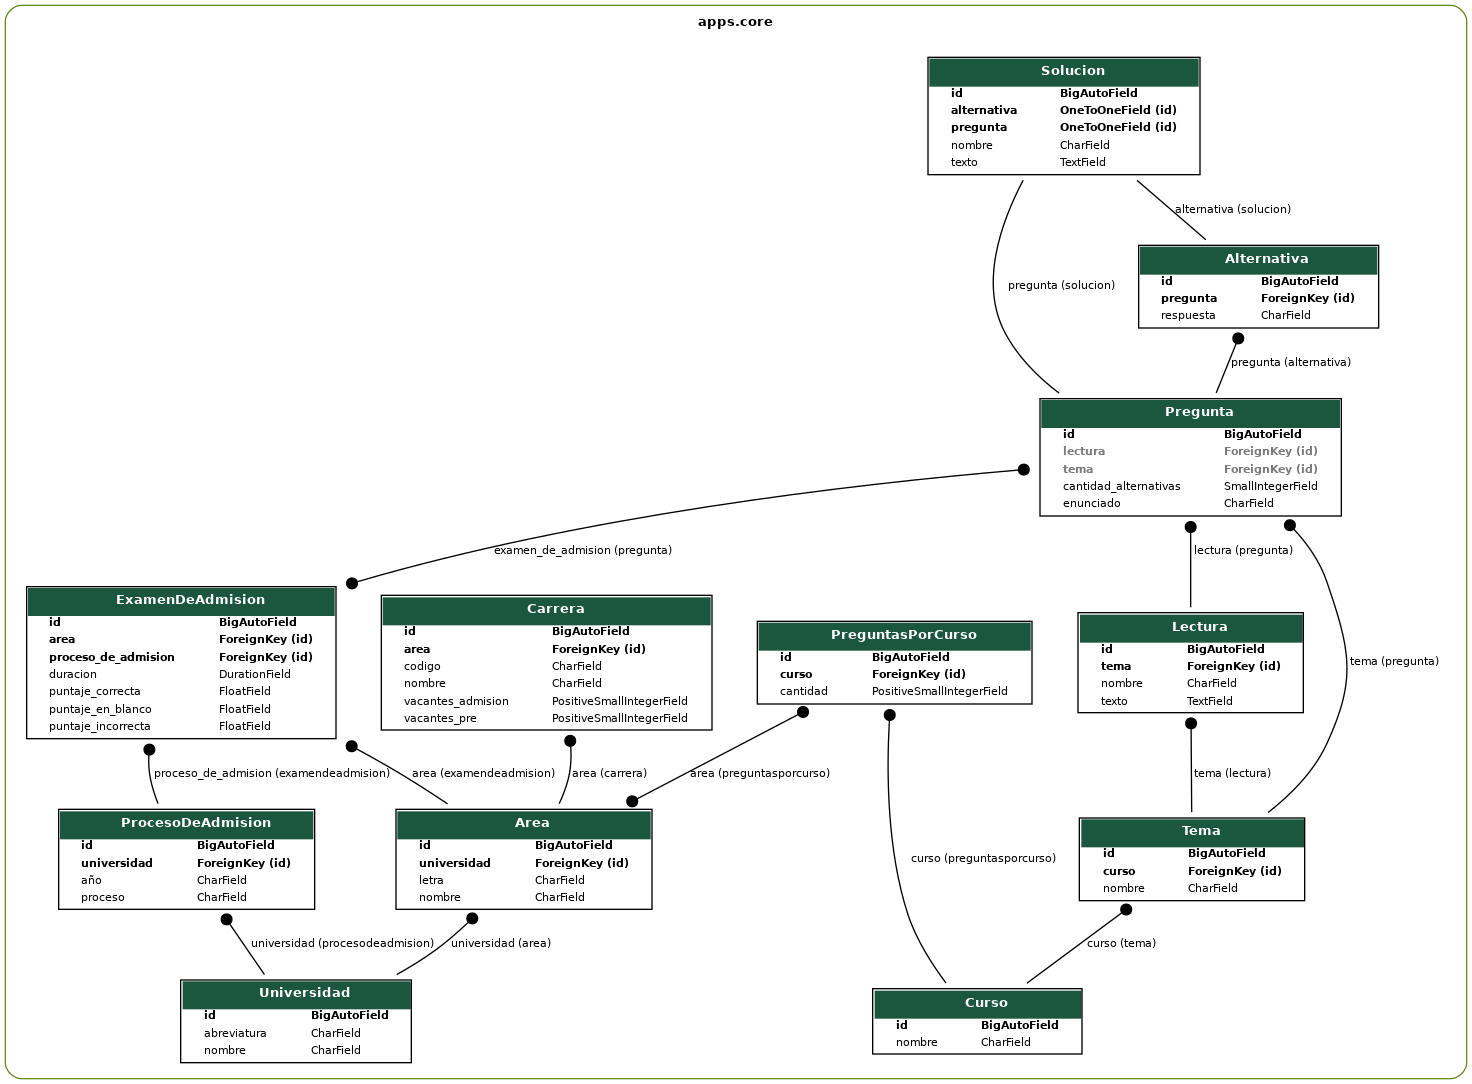
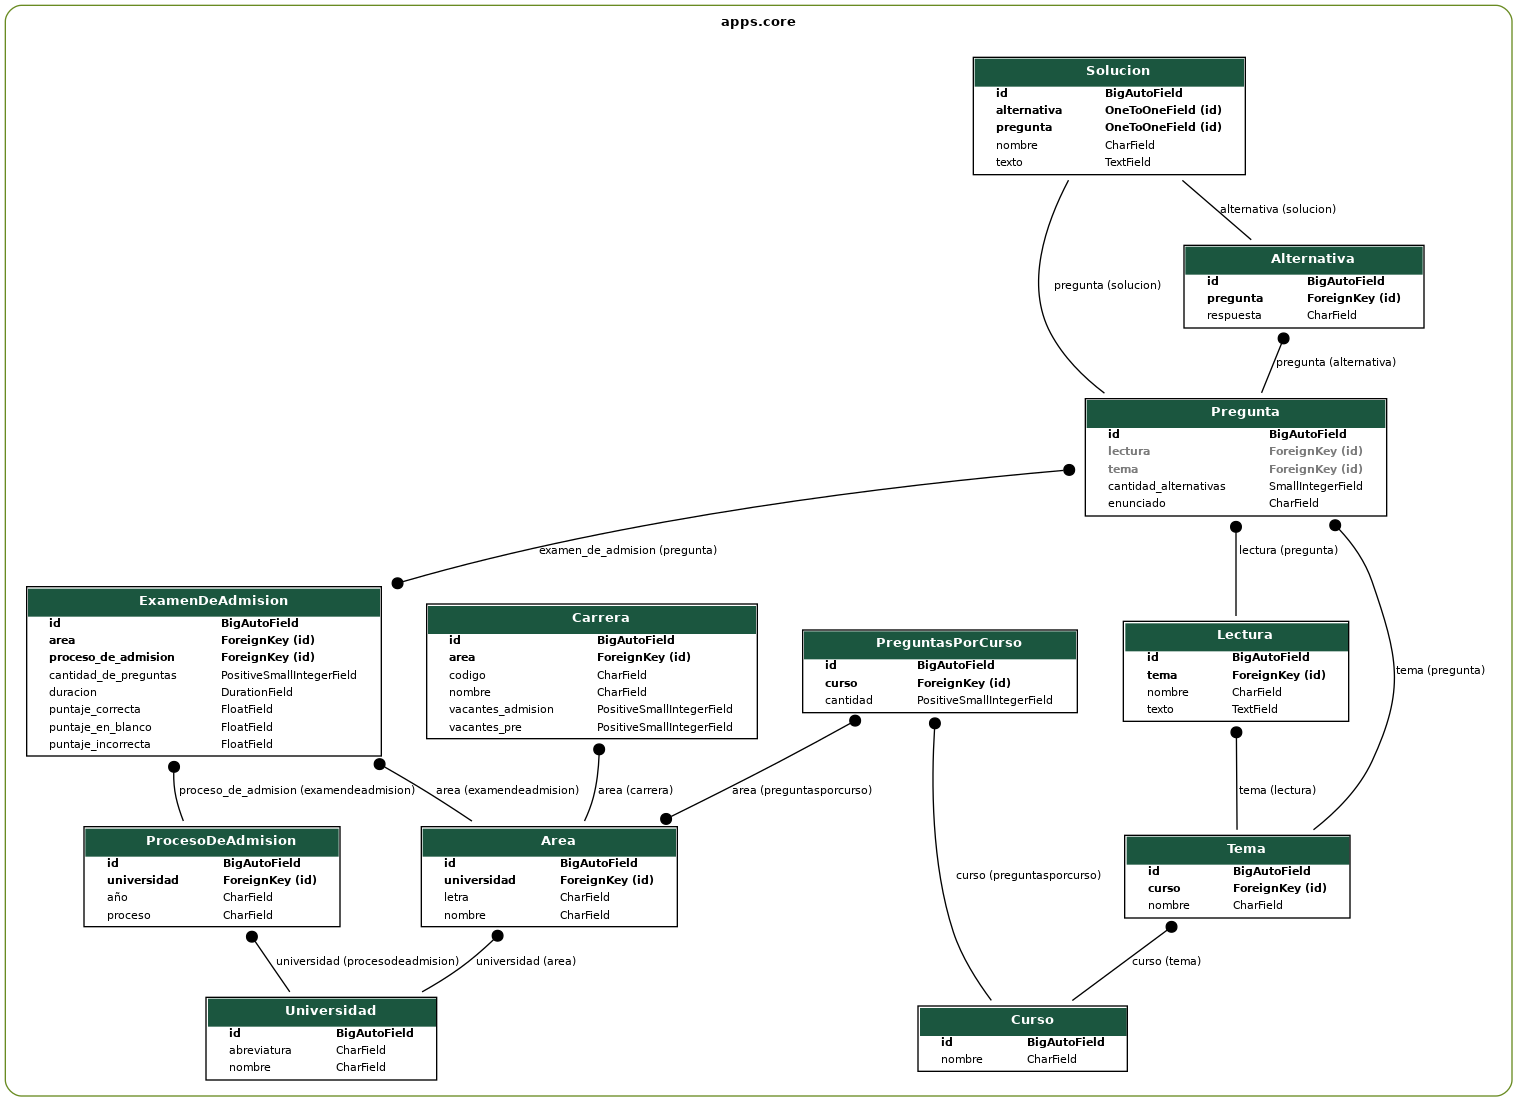
ADD cantidad_de_preguntas in ExamenDeAdmision

diff --git a/src/api/apps/core/migrations/0003_examendeadmision_cantidad_de_preguntas_and_more.py b/src/api/apps/core/migrations/0003_examendeadmision_cantidad_de_preguntas_and_more.py
@@ -1,0 +1,27 @@
+# Generated by Django 4.2.3 on 2023-08-02 20:00
+
+from django.db import migrations, models
+
+
+class Migration(migrations.Migration):
+    dependencies = [
+        ("core", "0002_initial"),
+    ]
+
+    operations = [
+        migrations.AddField(
+            model_name="examendeadmision",
+            name="cantidad_de_preguntas",
+            field=models.PositiveSmallIntegerField(default=100),
+        ),
+        migrations.AddConstraint(
+            model_name="pregunta",
+            constraint=models.CheckConstraint(
+                check=models.Q(
+                    ("lectura__isnull", False), ("tema__isnull", False), _connector="OR"
+                ),
+                name="check_pregunta_have_tema_or_lectura",
+                violation_error_message="Cada pregunta debe tener un tema o pertenecer a una lectura",
+            ),
+        ),
+    ]

diff --git a/src/api/apps/core/models.py b/src/api/apps/core/models.py
@@ -73,6 +73,7 @@ class ExamenDeAdmision(models.Model):
     puntaje_incorrecta = models.FloatField()
     puntaje_en_blanco = models.FloatField(default=0)
     duracion = models.DurationField()
+    cantidad_de_preguntas = models.PositiveSmallIntegerField(default=100)
 
     def __str__(self):
         return "{} {}, Area: {}".format(
